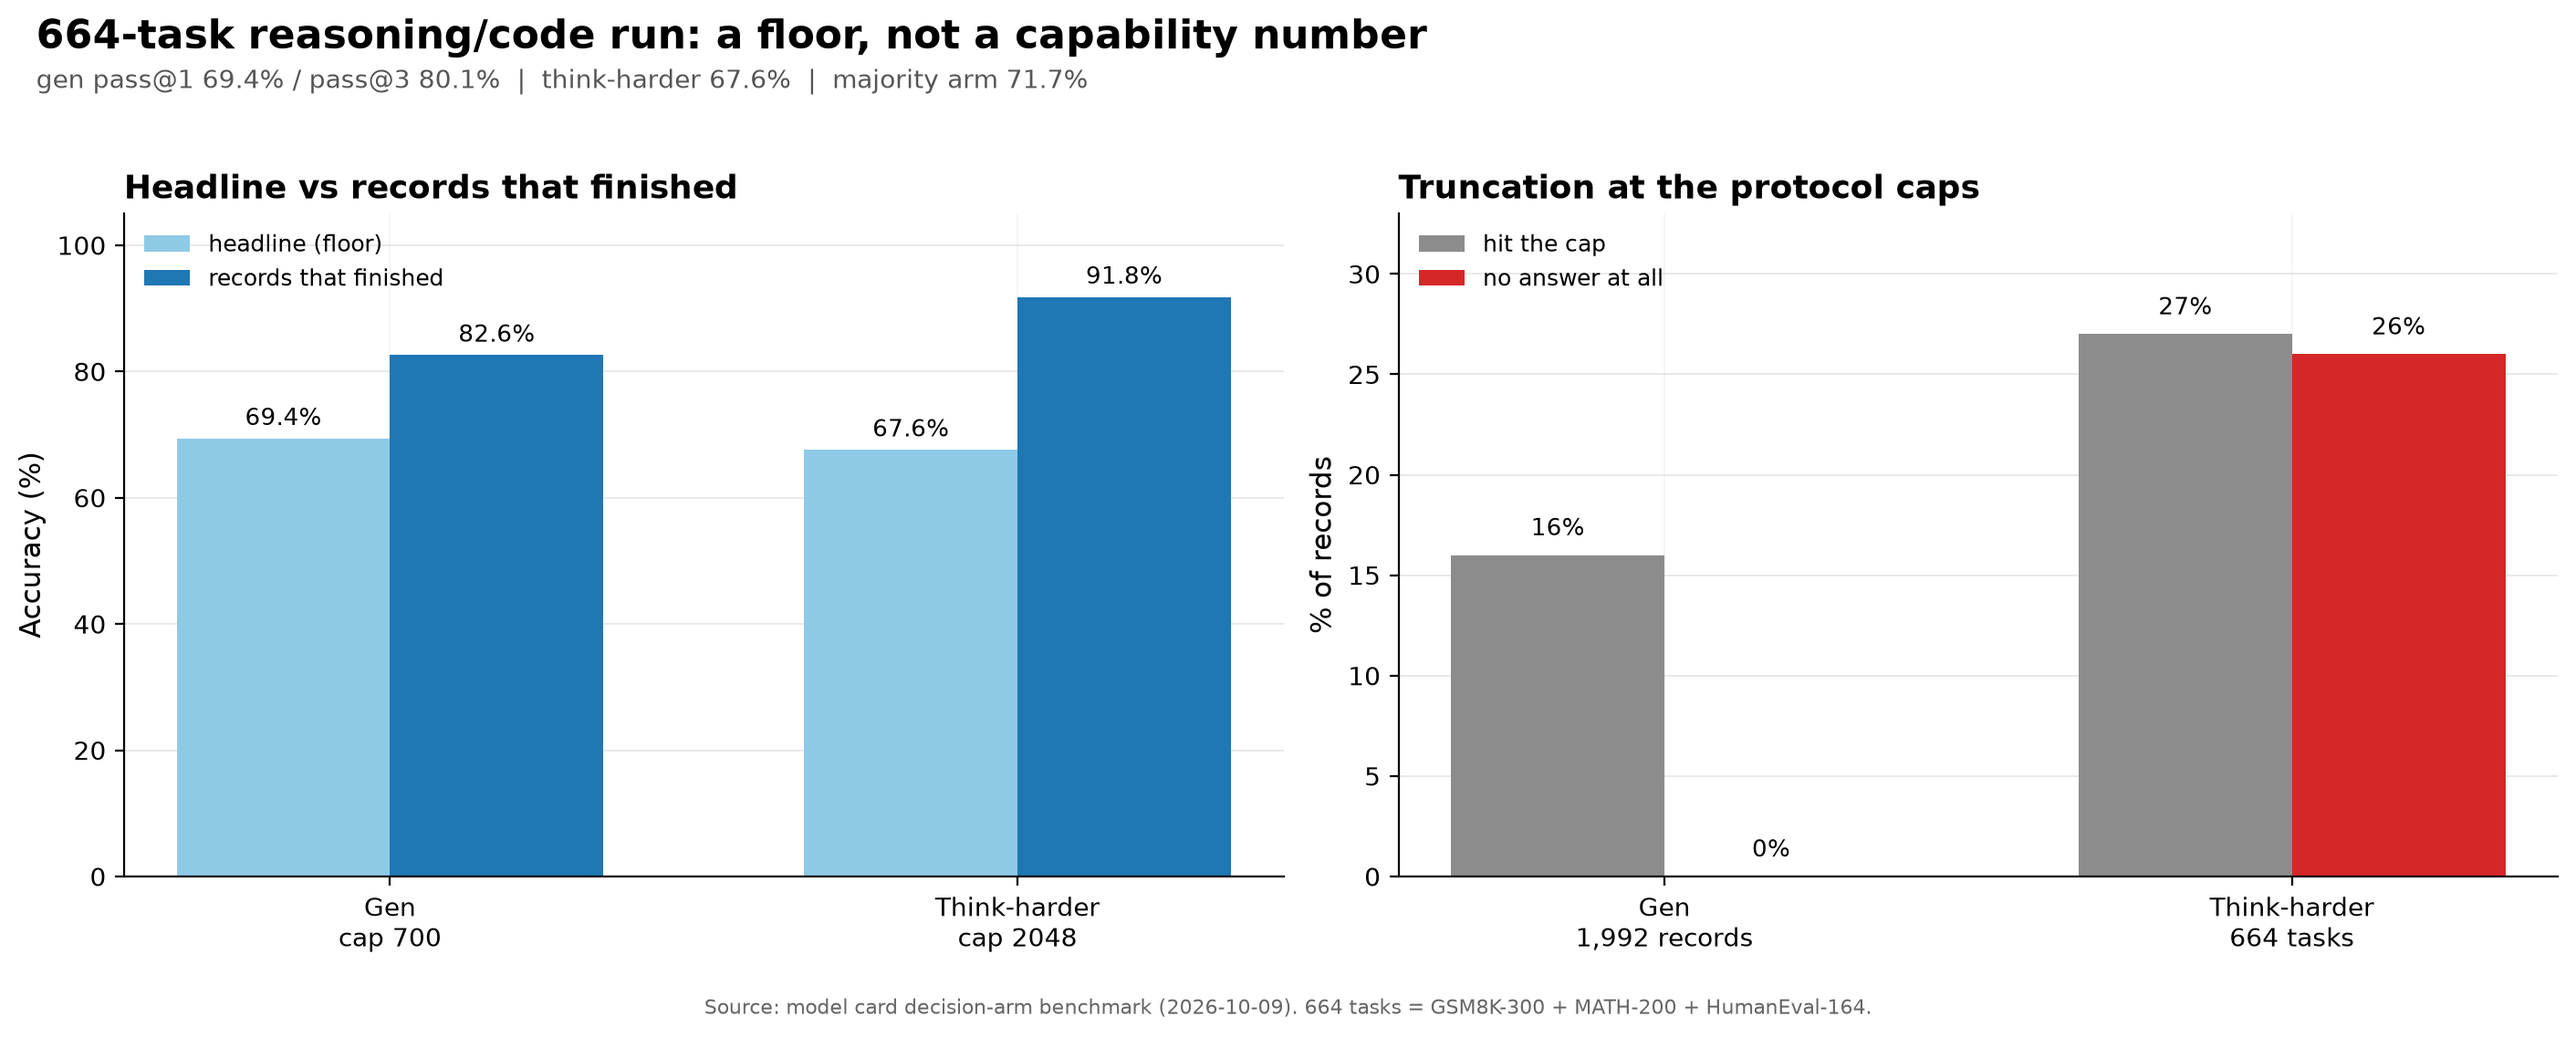
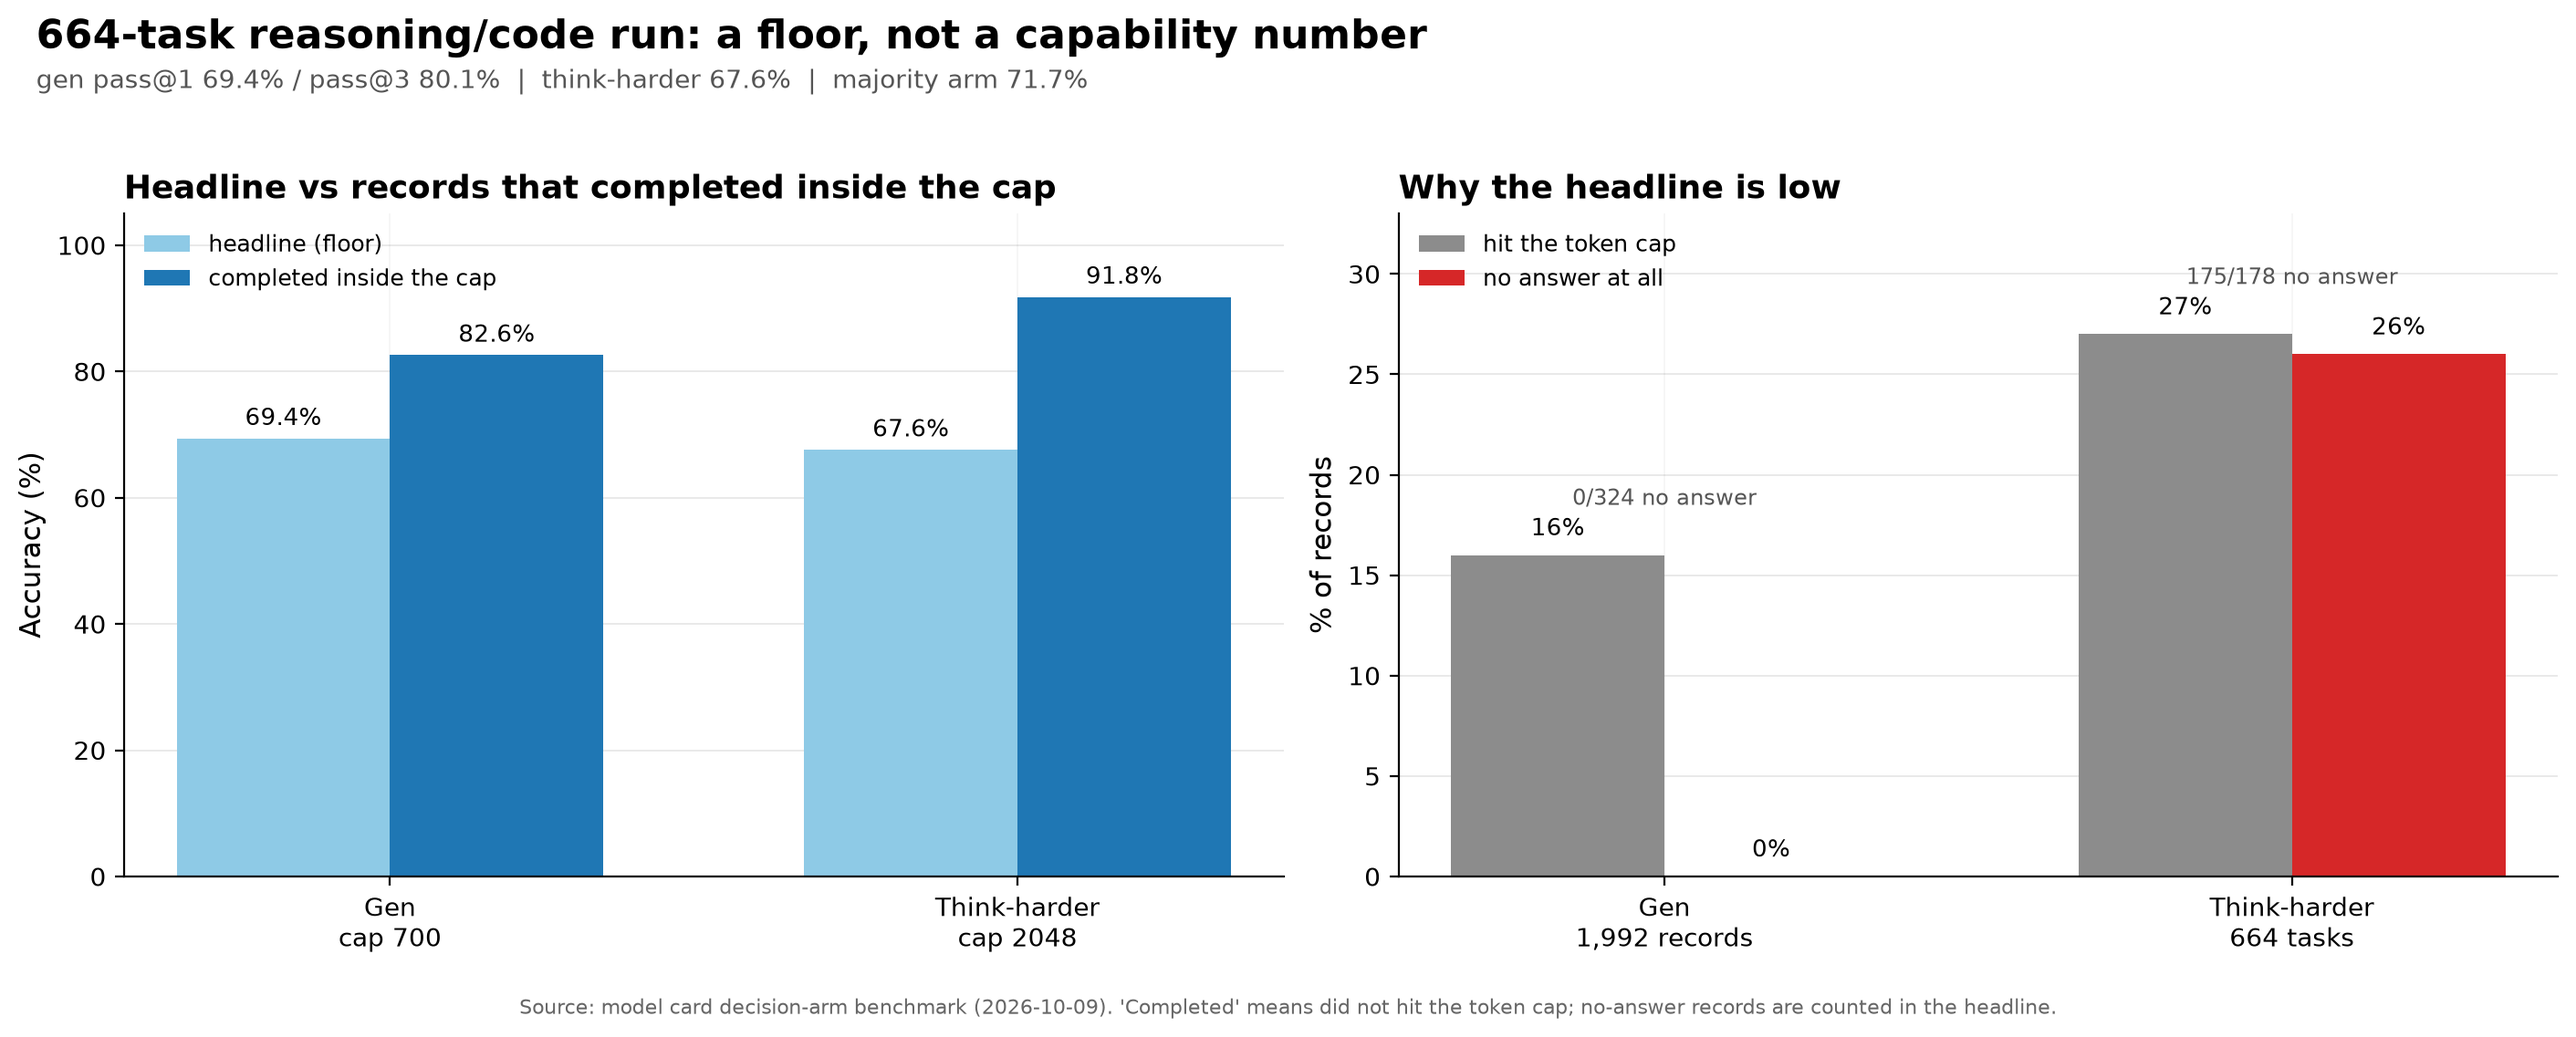
flashnext card: clarify CI whiskers and cap truncation
The quality A/B is now a 0-based dot plot with an explicit whiskers = CI note, and the 664 panel distinguishes 'completed inside the cap' from 'no answer' and shows the cap-hit/no-answer counts.

diff --git a/moe/plot_flashnext_card.py b/moe/plot_flashnext_card.py
@@ -183,62 +183,48 @@ def fig_quality_ab():
     q = DATA["quality_ab"]
     fig, axes = plt.subplots(1, 3, figsize=(14, 5.2), layout="constrained")
     labels = ["Scion\n60.17 GB", "ISTA Q2_0\n66.4 GB"]
-    colors = [BLUE, GREY]
     x = np.arange(2)
 
-    # PPL
-    ax = axes[0]
-    vals = [q["scion"]["ppl"], q["ista"]["ppl"]]
-    errs = [q["scion"]["ppl_err"], q["ista"]["ppl_err"]]
-    ax.bar(x, vals, color=colors, width=0.55, yerr=errs, capsize=5,
-           error_kw=dict(ecolor="#333333", lw=1.0))
-    for i, v in enumerate(vals):
-        ax.text(i, v + 0.012, f"{v:.3f}", ha="center", va="bottom", fontsize=10)
-    ax.set_ylim(5.0, 5.6)
-    ax.set_xticks(x)
-    ax.set_xticklabels(labels)
-    ax.set_ylabel("PPL (lower is better)")
-    ax.set_title("Wikitext-2 PPL", loc="left")
-    ax.text(0.5, 0.93, f"+{q['ppl_delta_pct']:.1f}% for Scion", transform=ax.transAxes,
-            ha="center", fontsize=10, color=RED, fontweight="bold")
-
-    # HellaSwag
-    ax = axes[1]
-    vals = [q["scion"]["hellaswag"], q["ista"]["hellaswag"]]
-    ax.bar(x, vals, color=colors, width=0.55)
-    for i, v in enumerate(vals):
-        ax.text(i, v + 0.08, f"{v:.2f}", ha="center", va="bottom", fontsize=10)
-    ax.set_ylim(79.0, 83.2)
-    ax.set_xticks(x)
-    ax.set_xticklabels(labels)
-    ax.set_ylabel("HellaSwag % (higher is better)")
-    ax.set_title("HellaSwag 400", loc="left")
-    ax.text(0.5, 0.93, f"tie, paired p = {q['hellaswag_p']:.2f}", transform=ax.transAxes,
-            ha="center", fontsize=10, color="#555555")
-
-    # Winogrande
-    ax = axes[2]
-    vals = [q["scion"]["winogrande"], q["ista"]["winogrande"]]
-    errs = [q["scion"]["winogrande_err"], q["ista"]["winogrande_err"]]
-    ax.bar(x, vals, color=colors, width=0.55, yerr=errs, capsize=5,
-           error_kw=dict(ecolor="#333333", lw=1.0))
-    for i, v in enumerate(vals):
-        ax.text(i, v + 0.35, f"{v:.2f}", ha="center", va="bottom", fontsize=10)
-    ax.set_ylim(71.0, 81.0)
-    ax.set_xticks(x)
-    ax.set_xticklabels(labels)
-    ax.set_ylabel("Winogrande % (higher is better)")
-    ax.set_title("Winogrande 400", loc="left")
-    ax.text(0.5, 0.93, f"+{q['winogrande_delta']:.2f} pts, p = {q['winogrande_p']:.2f} (not conclusive)",
-            transform=ax.transAxes, ha="center", fontsize=9.5, color=BLUE, fontweight="bold")
-
-    for ax in axes:
+    def panel(ax, vals, errs, ylim, ylabel, title, note, note_color):
+        ax.plot(x, vals, color="#cccccc", lw=1.2, zorder=1)
+        for i, (v, e) in enumerate(zip(vals, errs)):
+            ax.errorbar([i], [v], yerr=[e] if e is not None else None,
+                        fmt="o", ms=10, color=[BLUE, GREY][i], capsize=6,
+                        elinewidth=1.2, markeredgecolor="white", markeredgewidth=0.8,
+                        zorder=3)
+            fmt = f"{v:.3f}" if isinstance(v, float) and v < 10 else f"{v:.2f}"
+            ax.annotate(fmt, (i, v), textcoords="offset points", xytext=(0, 11),
+                        ha="center", va="bottom", fontsize=10)
+        ax.set_xlim(-0.45, 1.45)
+        ax.set_ylim(*ylim)
+        ax.set_xticks(x)
+        ax.set_xticklabels(labels)
+        ax.set_ylabel(ylabel)
+        ax.set_title(title, loc="left")
+        ax.text(0.5, 0.05, note, transform=ax.transAxes, ha="center", va="bottom",
+                fontsize=10, color=note_color, fontweight="bold")
         clean(ax, "y")
+
+    panel(axes[0], [q["scion"]["ppl"], q["ista"]["ppl"]],
+          [q["scion"]["ppl_err"], q["ista"]["ppl_err"]], (0, 6.0),
+          "PPL (lower is better)", "Wikitext-2 PPL",
+          f"+{q['ppl_delta_pct']:.1f}% PPL (Scion worse)", RED)
+
+    panel(axes[1], [q["scion"]["hellaswag"], q["ista"]["hellaswag"]],
+          [None, None], (0, 110),
+          "HellaSwag % (higher is better)", "HellaSwag 400",
+          f"+{q['hellaswag_delta']:.2f} pts, paired p = {q['hellaswag_p']:.2f} (tie)", "#555555")
+
+    panel(axes[2], [q["scion"]["winogrande"], q["ista"]["winogrande"]],
+          [q["scion"]["winogrande_err"], q["ista"]["winogrande_err"]], (0, 100),
+          "Winogrande % (higher is better)", "Winogrande 400",
+          f"+{q['winogrande_delta']:.2f} pts, p = {q['winogrande_p']:.2f} (not conclusive)", BLUE)
+
     header(fig,
            "Scion vs ISTA GSQ-RCO Q2_0: same harness, same 400 tasks",
-           "Scion 60.17 GB vs ISTA 66.4 GB  |  PPL is wikitext-2; error bars are the published CIs",
+           "blue = Scion, grey = ISTA  |  whiskers = published CI (HellaSwag has no published CI)  |  axes start at 0",
            top=0.84)
-    source(fig, "Source: model card community benchmark (2026-10-06 A100 session). HellaSwag has no published CI; the PPL axis starts at 5.0.")
+    source(fig, "Source: model card community benchmark (2026-10-06 A100 session). PPL CI ±0.032/±0.033; Winogrande CI ±2.09/±2.18; HS/WG p-values are paired McNemar.")
     save(fig, "flashnext-quality-ab.png")
 
 
@@ -300,7 +286,7 @@ def fig_664():
     headline = [t["gen"]["pass1"], t["think_hard"]["pass1"]]
     finished = [t["gen"]["finished_acc"], t["think_hard"]["finished_acc"]]
     ax.bar(x - w / 2, headline, width=w, color=LIGHT_BLUE, label="headline (floor)")
-    ax.bar(x + w / 2, finished, width=w, color=BLUE, label="records that finished")
+    ax.bar(x + w / 2, finished, width=w, color=BLUE, label="completed inside the cap")
     for i, (a, b) in enumerate(zip(headline, finished)):
         ax.text(i - w / 2, a + 1.2, f"{a:.1f}%", ha="center", va="bottom", fontsize=9.5)
         ax.text(i + w / 2, b + 1.2, f"{b:.1f}%", ha="center", va="bottom", fontsize=9.5)
@@ -308,7 +294,7 @@ def fig_664():
     ax.set_xticklabels(groups)
     ax.set_ylim(0, 105)
     ax.set_ylabel("Accuracy (%)")
-    ax.set_title("Headline vs records that finished", loc="left")
+    ax.set_title("Headline vs records that completed inside the cap", loc="left")
     ax.legend(loc="upper left", frameon=False)
     clean(ax, "y")
 
@@ -316,16 +302,18 @@ def fig_664():
     ax = axes[1]
     cap = [t["gen"]["cap_pct"], t["think_hard"]["cap_pct"]]
     noans = [t["gen"]["no_answer_pct"], t["think_hard"]["no_answer_pct"]]
-    ax.bar(x - w / 2, cap, width=w, color=GREY, label="hit the cap")
+    ax.bar(x - w / 2, cap, width=w, color=GREY, label="hit the token cap")
     ax.bar(x + w / 2, noans, width=w, color=RED, label="no answer at all")
     for i, (a, b) in enumerate(zip(cap, noans)):
         ax.text(i - w / 2, a + 0.7, f"{a:.0f}%", ha="center", va="bottom", fontsize=9.5)
         ax.text(i + w / 2, b + 0.7, f"{b:.0f}%", ha="center", va="bottom", fontsize=9.5)
+    ax.text(0, 18.5, "0/324 no answer", ha="center", fontsize=8.5, color="#555555")
+    ax.text(1, 29.5, "175/178 no answer", ha="center", fontsize=8.5, color="#555555")
     ax.set_xticks(x)
     ax.set_xticklabels(["Gen\n1,992 records", "Think-harder\n664 tasks"])
     ax.set_ylim(0, 33)
     ax.set_ylabel("% of records")
-    ax.set_title("Truncation at the protocol caps", loc="left")
+    ax.set_title("Why the headline is low", loc="left")
     ax.legend(loc="upper left", frameon=False)
     clean(ax, "y")
 
@@ -334,7 +322,7 @@ def fig_664():
            f"gen pass@1 {t['gen']['pass1']:.1f}% / pass@3 {t['gen']['pass3']:.1f}%  |  "
            f"think-harder {t['think_hard']['pass1']:.1f}%  |  majority arm {t['majority']:.1f}%",
            top=0.84)
-    source(fig, "Source: model card decision-arm benchmark (2026-10-09). 664 tasks = GSM8K-300 + MATH-200 + HumanEval-164.")
+    source(fig, "Source: model card decision-arm benchmark (2026-10-09). 'Completed' means did not hit the token cap; no-answer records are counted in the headline.")
     save(fig, "flashnext-664-truncation.png")
 
 

diff --git a/docs/RELEASE-FLASHNEXT-176B-A6B-MODEL-CARD.md b/docs/RELEASE-FLASHNEXT-176B-A6B-MODEL-CARD.md
@@ -347,9 +347,11 @@ context, not an A/B result.
 
 ![Scion vs ISTA GSQ-RCO Q2_0 on the same 400 tasks](./figures/flashnext-quality-ab.png)
 
-*Same harness, same 400 tasks: Scion trails ISTA on PPL by 4.2%, ties on
-HellaSwag, and leads on Winogrande by 2.75 points (p = 0.22, not conclusive).
-The size difference is 6.2 GB, or 8.8 GB with the Q4X160 table.*
+*Same harness, same 400 tasks. Blue = Scion, grey = ISTA; whiskers are the
+published CIs (PPL ±0.032/±0.033, Winogrande ±2.09/±2.18; HellaSwag has no
+published CI). Scion trails ISTA on PPL by 4.2%, ties on HellaSwag (paired
+p = 0.83), and leads on Winogrande by 2.75 points (paired p = 0.22, not
+conclusive). The size difference is 6.2 GB, or 8.8 GB with the Q4X160 table.*
 
 ### Decision-arm benchmark: 664-task reasoning/code suite (2026-10-09)
 
@@ -410,9 +412,14 @@ truncation effect at its worst.
 
 ![664-task accuracy and truncation at the protocol caps](./figures/flashnext-664-truncation.png)
 
-*The headline is a floor: 69.4% gen pass@1 and 67.6% think-harder, against
-82.6% and 91.8% on records that finished. 26% of think-harder records emitted
-no answer at the 2048-token cap; the gen arm had no no-answer records.*
+*The headline is a floor, not a capability number. "Completed" means the record
+finished inside the fixed token cap; it is not the model choosing to answer. On
+think-harder, 175 of the 178 cap-hit records emitted no final answer because the
+2048-token cap stopped the thinking trace before the answer; the gen arm hit the
+700-token cap on 16% of records but left no record without an answer. Scoring
+only records that completed inside the cap gives 82.6% / 91.8%; including
+cap-hit records gives the 69.4% / 67.6% floor. A fair capability number needs a
+larger thinking budget.*
 
 Two fork-side fixes were needed to run the suite end-to-end: the server's
 prompt cache disabled (`--cache-ram 0`, its eviction path faults with the
